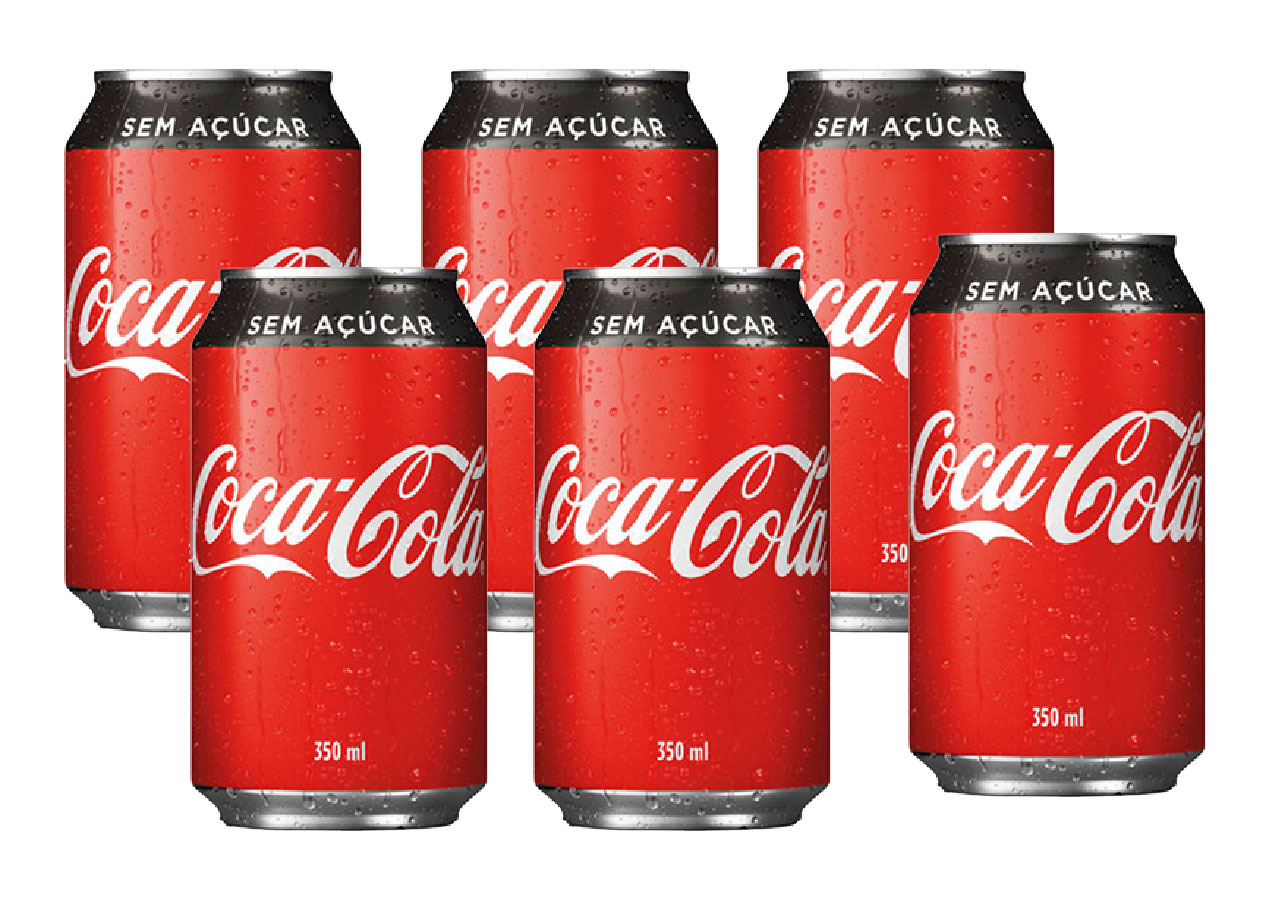
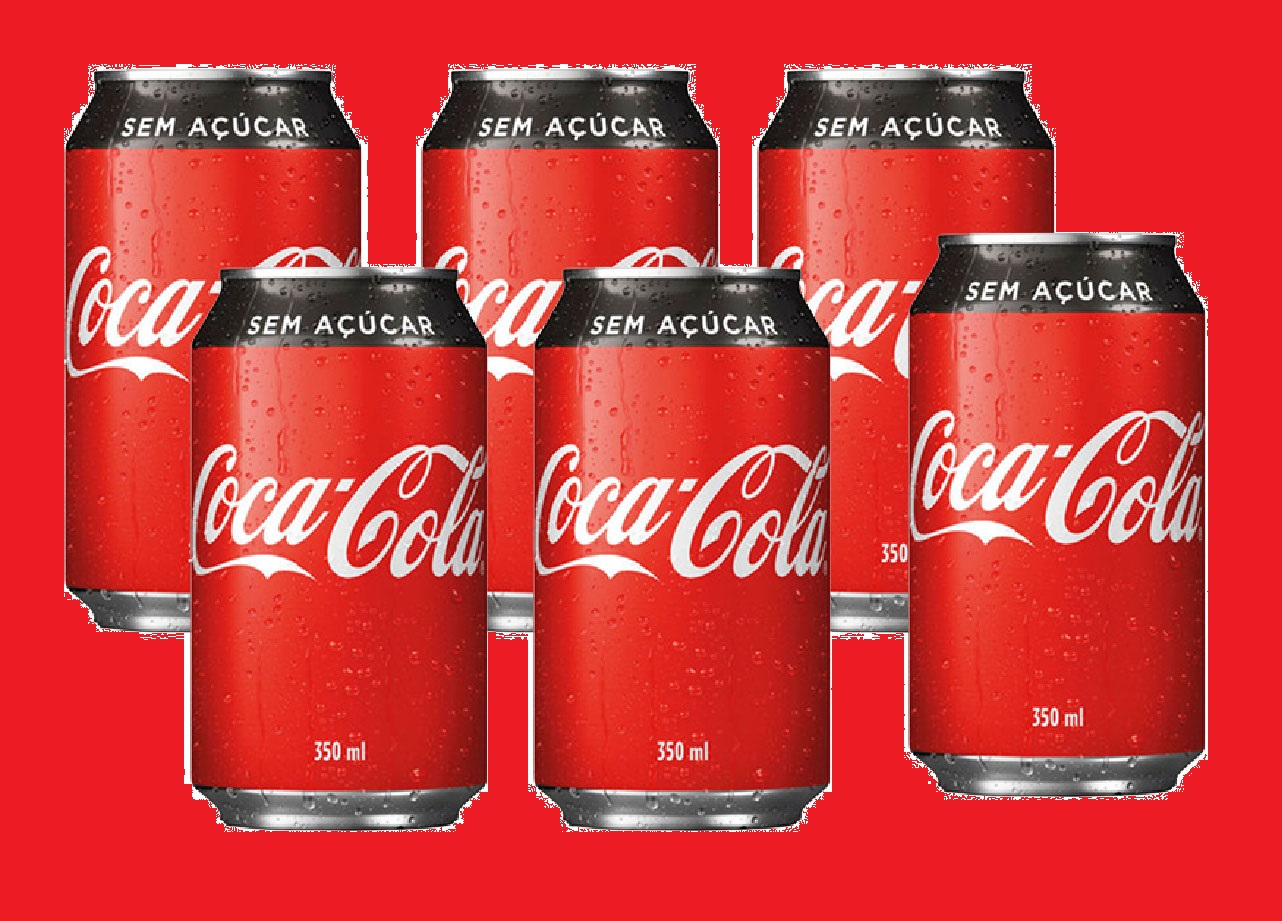
Adicionado seleção de background, linhas de divisão dos produtos, preços nas coordenadas certas

diff --git a/class.py b/class.py
@@ -3,9 +3,7 @@ import re
 import pickle
 from createPDF import createPDF
 
-# importar as cores depois
 # adicionar fundos
-# R$ ser desenhado por uma conta que adiciona mais por length do preço
 # Bug = na hora de selecionar produtos no autocomplete se colocar letra crasha
 # selecionar BG caso não encontre?
 
@@ -16,13 +14,13 @@ class NiceDoDia:
         self.productAmmount = 0
         self.PDFsavepath = path.join('./PDFs/')
         self.BGsavepath = './fundos'
+        self.background = self.BGsavepath+'/Default.jpg'
         # Dict que vai conter as variaveis para gerar o pdf
         self.newOfferDict = {
             "products": [],
             "prices": [],
-            "PDFsavepath": self.PDFsavepath
-            # background
-
+            "PDFsavepath": self.PDFsavepath,
+            "background": self.background
         }
 
     def mainMenu(self):
@@ -34,6 +32,8 @@ class NiceDoDia:
 
             1.Gerar Oferta
             2.Alterar imagem de fundo
+            3.Testefile
+            4.sair
             3.Adicionar novas imagens de fundo
             4.Adicionar produtos
             5.Editar produto
@@ -45,8 +45,10 @@ class NiceDoDia:
                 self.createOffer()
             elif ans == "2":
                 system('cls')
-                self.testefile()
+                self.setBgImage()
             elif ans == "3":
+                self.payloadPDF()
+            elif ans == "4":
                 exit()
             elif ans != "":
                 wait = input('\n Opção Invalida, tente novamente')
@@ -115,7 +117,7 @@ class NiceDoDia:
 
         matches = ["Cancelar"]
         for find in data:
-            if product in find:
+            if product in find and find[0] != "#":
                 matches.append(find)
 
         if len(matches) <= 1:
@@ -139,27 +141,73 @@ class NiceDoDia:
 
             print("Opção invalida")
 
-    def setBGimage(self):
-        default = str(self.BGsavepath+'/Default.jpg')
+    def setDefaultBGimage(self):
+
+        if path.exists(self.newOfferDict['background']):
+            return
+
+        default = self.BGsavepath+'/Default.jpg'
         # Seta o background para padrão
         if path.exists(default):
             self.newOfferDict['background'] = default
         else:  # caso não encontre o default
             backgrounds = listdir(self.BGsavepath)
             # usa o primeiro que encontar no diretorio
-            self.newOfferDict['background'] = str(
-                self.BGsavepath+'/'+backgrounds[0])
+            self.newOfferDict['background'] = self.BGsavepath + \
+                '/'+backgrounds[0]
+
+    def setBgImage(self):
+        with open(self.itensFile, "rb") as f:
+            data = pickle.load(f)
+            f.close()
+
+        # hashtag é o sufixo dos backgrounds , ja q o input de produto não aceita # ele so sera mostrado aqui
+        backgrounds = "#"
+
+        matches = [".Cancelar"]
+        for find in data:
+            if backgrounds in find:
+                matches.append(find)
+
+        if len(matches) <= 1:
+            print("\n Não ha imagens de fundo cadastradas!")
+            system("pause")
+            return
+
+        print("Selecione a imagem de fundo: \n")
+        for index, name in enumerate(matches):
+            print("{0}: {1}".format(index, name[1:]))
+        print("\n0: Cancelar\n")
+
+        while 1:
+            option = int(input("Digite a opção: "))
+
+            if option >= 1 and option < len(matches):
+                selectedBg = matches[option]
+                self.newOfferDict['background'] = data[selectedBg]['img_path']
+                break
+
+            if option == 0:
+                return
+
+            print("Opção invalida!")
+
+        print("\n Imagem de fundo definida com sucesso! \n")
+        system('pause')
 
     def createOffer(self):
+        # Chama os métodos para receber os inputs
         self.getProductAmmountInput()
         self.getProductsInput()
-        self.setBGimage()
+        # Define o background
+        self.setDefaultBGimage()
+        # Método para instanciar e criar novo PDF
         self.createPDFfile()
 
-    def testefile(self):
+    def payloadPDF(self):
 
         self.newOfferDict = {'products': [{'name': 'abacaxi tropical unidade', 'img_path': './imgs/abacaxi tropical und.jpg', 'disc1': 'abacaxi tropical',
-                                           'disc2': 'gostozo d+', 'disc3': 'und'}], 'prices': ['1,00'], 'PDFsavepath': './PDFs/', 'background': './fundos/Default.jpg'}
+                                           'disc2': 'gostozo d+', 'disc3': 'und'}], 'prices': ['222,00'], 'PDFsavepath': './PDFs/', 'background': './fundos/Default.jpg'}
 
         PDFfile = createPDF(self.newOfferDict)
         PDFfile.initPDFfile()
@@ -168,6 +216,15 @@ class NiceDoDia:
 
         PDFfile = createPDF(self.newOfferDict)
         PDFfile.initPDFfile()
+
+        # Deleta a instacia da classe de geração de PDF
+        del PDFfile
+        # Zera os valores da oferta
+        self.newOfferDict = {
+            "products": [],
+            "prices": [],
+            "PDFsavepath": self.PDFsavepath}
+
         system("pause")
 
 

diff --git a/createPDF.py b/createPDF.py
@@ -1,5 +1,6 @@
 import os
-from datetime import datetime
+from datetime import date, datetime
+from platform import system
 from reportlab.pdfbase import pdfmetrics
 from reportlab.pdfbase.ttfonts import TTFont
 from reportlab.pdfgen import canvas
@@ -13,8 +14,6 @@ class createPDF:
         self.products = newOffer['products']
         self.prices = newOffer['prices']
         self.background = newOffer['background']
-        self.validity = newOffer.get(
-            'validity', datetime.today().strftime('%d/%m/%Y'))
 
     def initPDFfile(self):
         # Cria o diretorio para salvar o PDF e cria o nome do arquivo
@@ -27,9 +26,10 @@ class createPDF:
 
         # Desenhas os objetos no PDF
         self.drawProductsImages(pdf)
-       # AINDA EM DEV --  self.drawCenterLines(pdf)
+        self.drawCenterLines(pdf)
         self.drawDescriptions(pdf)
         self.drawPrices(pdf)
+        self.drawExpirationDate(pdf)
         pdf.save()
 
         # Abre o arquivo automaticamente após criado
@@ -90,12 +90,18 @@ class createPDF:
                           height=imgCoordinates.get(productAmmount, {}).get('height', 167))
 
     def drawCenterLines(self, pdf):
-        pass
-        # SERA DESENVOLVIDO DEPOIS DAS DESCRIÇÕES E PREÇOS att.
-        # canvas.line(x1,y1,x2,y2)
-        # pdf.line(0,510,500,510)
+       # Desenha as linhas para separar os produtos
         pdf.setStrokeColorRGB(0.91796875, 0.421875, 0.08203125)  # laranja
-        pdf.line(24, 350, 571, 350)
+
+        if len(self.products) == 2:
+            pdf.line(24, 325, 571, 325)
+
+        if len(self.products) > 2:
+            pdf.line(24, 333, 571, 333)
+            pdf.line(290, 65, 290, 333)
+
+            if len(self.products) == 4:
+                pdf.line(290, 340, 290, 591)
 
     def drawDescriptions(self, pdf):
         pdfmetrics.registerFont(TTFont('Algebrian Regular', 'ALGER.ttf'))
@@ -152,23 +158,23 @@ class createPDF:
         # Total de produtos em string para chamar as chaves do dicionario
         productAmmount = str(len(self.products))
 
-        # coordenadas base
+        # coordenadas base onde iniciara os decimais
         priceCoordinates = {
             "1": {
-                "x": [300],
+                "x": [470],
                 "y": [120]
             },
             "2": {
-                "x": [300, 40],
+                "x": [470, 210],
                 "y": [360, 100]
             },
             "3": {
-                "x": [300, 118, 393],
-                "y": [360, 100, 100]
+                "x": [470, 250, 530],
+                "y": [360, 75, 75]
             },
             "4": {
-                "x": [35, 315, 35, 315],
-                "y": [415, 415, 160, 160]
+                "x": [255, 530, 250, 530],
+                "y": [340, 340, 75, 75]
             }
         }
 
@@ -195,8 +201,8 @@ class createPDF:
             pdf.drawString(x, y, decimalString)
 
             # Calcula a proxima coordenada com base no tamanho da passada
-            nextCoordinate = x - pdfmetrics.stringWidth(
-                decimalString, 'Calibri', decimalFont)
+            nextCoordinate = x - int(pdfmetrics.stringWidth(
+                numeralString, 'Calibri', numeralFont))
 
             # Desenha o Numeral
             pdf.setFontSize(numeralFont)
@@ -204,7 +210,7 @@ class createPDF:
 
             # Calcula a proxima coordenada com base no tamanho da passada
             nextCoordinate -= pdfmetrics.stringWidth(
-                numeralString, 'Calibri', numeralFont)
+                dolarSignString, 'Calibri', dolarSignFont)
 
             # Desenha o R$
             pdf.setFontSize(dolarSignFont)
@@ -250,6 +256,12 @@ class createPDF:
                 decimalFont = 25
 
         return numeralFont, decimalFont
+
+    def drawExpirationDate(self, pdf):
+        expDate = str(date.today().strftime("%d/%m/%Y"))
+        pdf.setFillColorRGB(1, 1, 1)
+        pdf.setFontSize(24)
+        pdf.drawString(120, 630, expDate)
 
     def printar(self):
         print(self.savepath)

diff --git a/disc.py b/disc.py
@@ -52,21 +52,35 @@ def addToPkl():
         pickle.dump(obj, f)
 
 
+def addBG():
+    with open("data.pkl", "rb") as f:
+        obj = pickle.load(f)
+
+    obj["#Red Background"] = {
+        "name": "Red Background",
+        "img_path": "./fundos/Red Background.jpg"
+    }
+
+    with open("data.pkl", "wb") as f:
+        pickle.dump(obj, f)
+
+
 def dellPkl():
     with open("data.pkl", "rb") as f:
         obj = pickle.load(f)
         f.close()
-    del obj['nescau 2.0 radical 200g']
+    del obj['#']
     with open("data.pkl", "wb") as f:
         pickle.dump(obj, f)
+
+
+addBG()
+lerpkl()
 
 
 def testeMatch():
     a = input("Digit: ").isdigit()
     print(a)
-
-# editpkl()
-# lerpkl()
 
 
 def dictadd():
@@ -82,6 +96,3 @@ def dictadd():
 
 def versiona():
     print(pd.__version__)
-
-
-versiona()

diff --git a/holder.py b/holder.py
@@ -1,0 +1,13 @@
+from re import A
+
+
+list = ['#back green', '#back red', 'abacaxi', 'a melao']
+
+x = "a"
+
+matches = []
+for find in list:
+    if x in find and find[0] != "#":
+        matches.append(find)
+
+print(matches)
